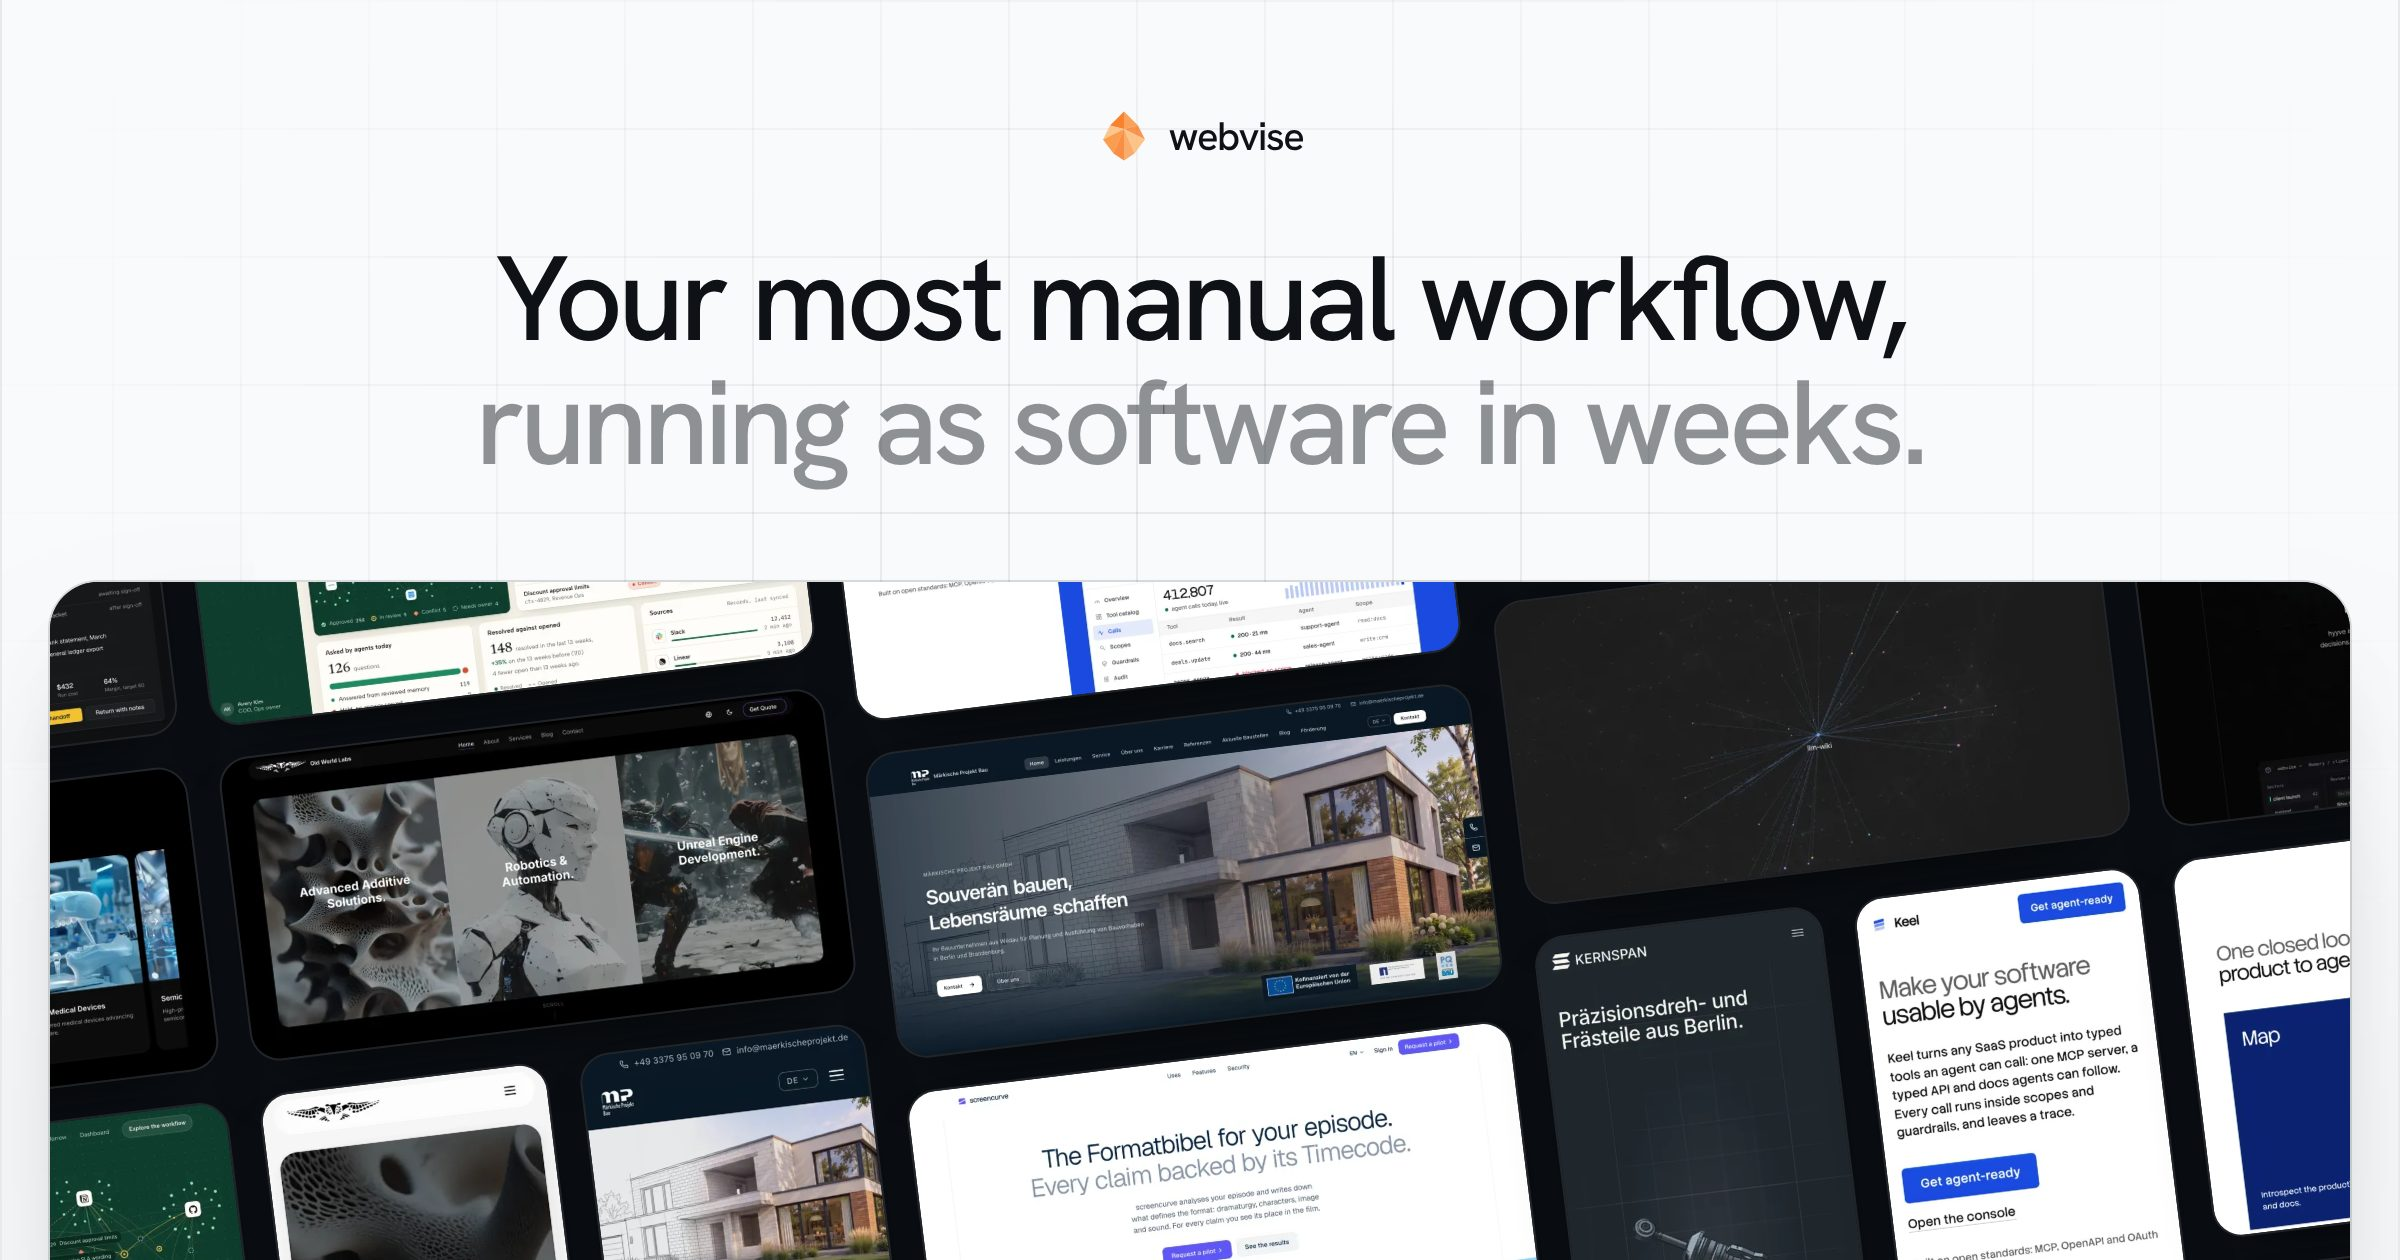
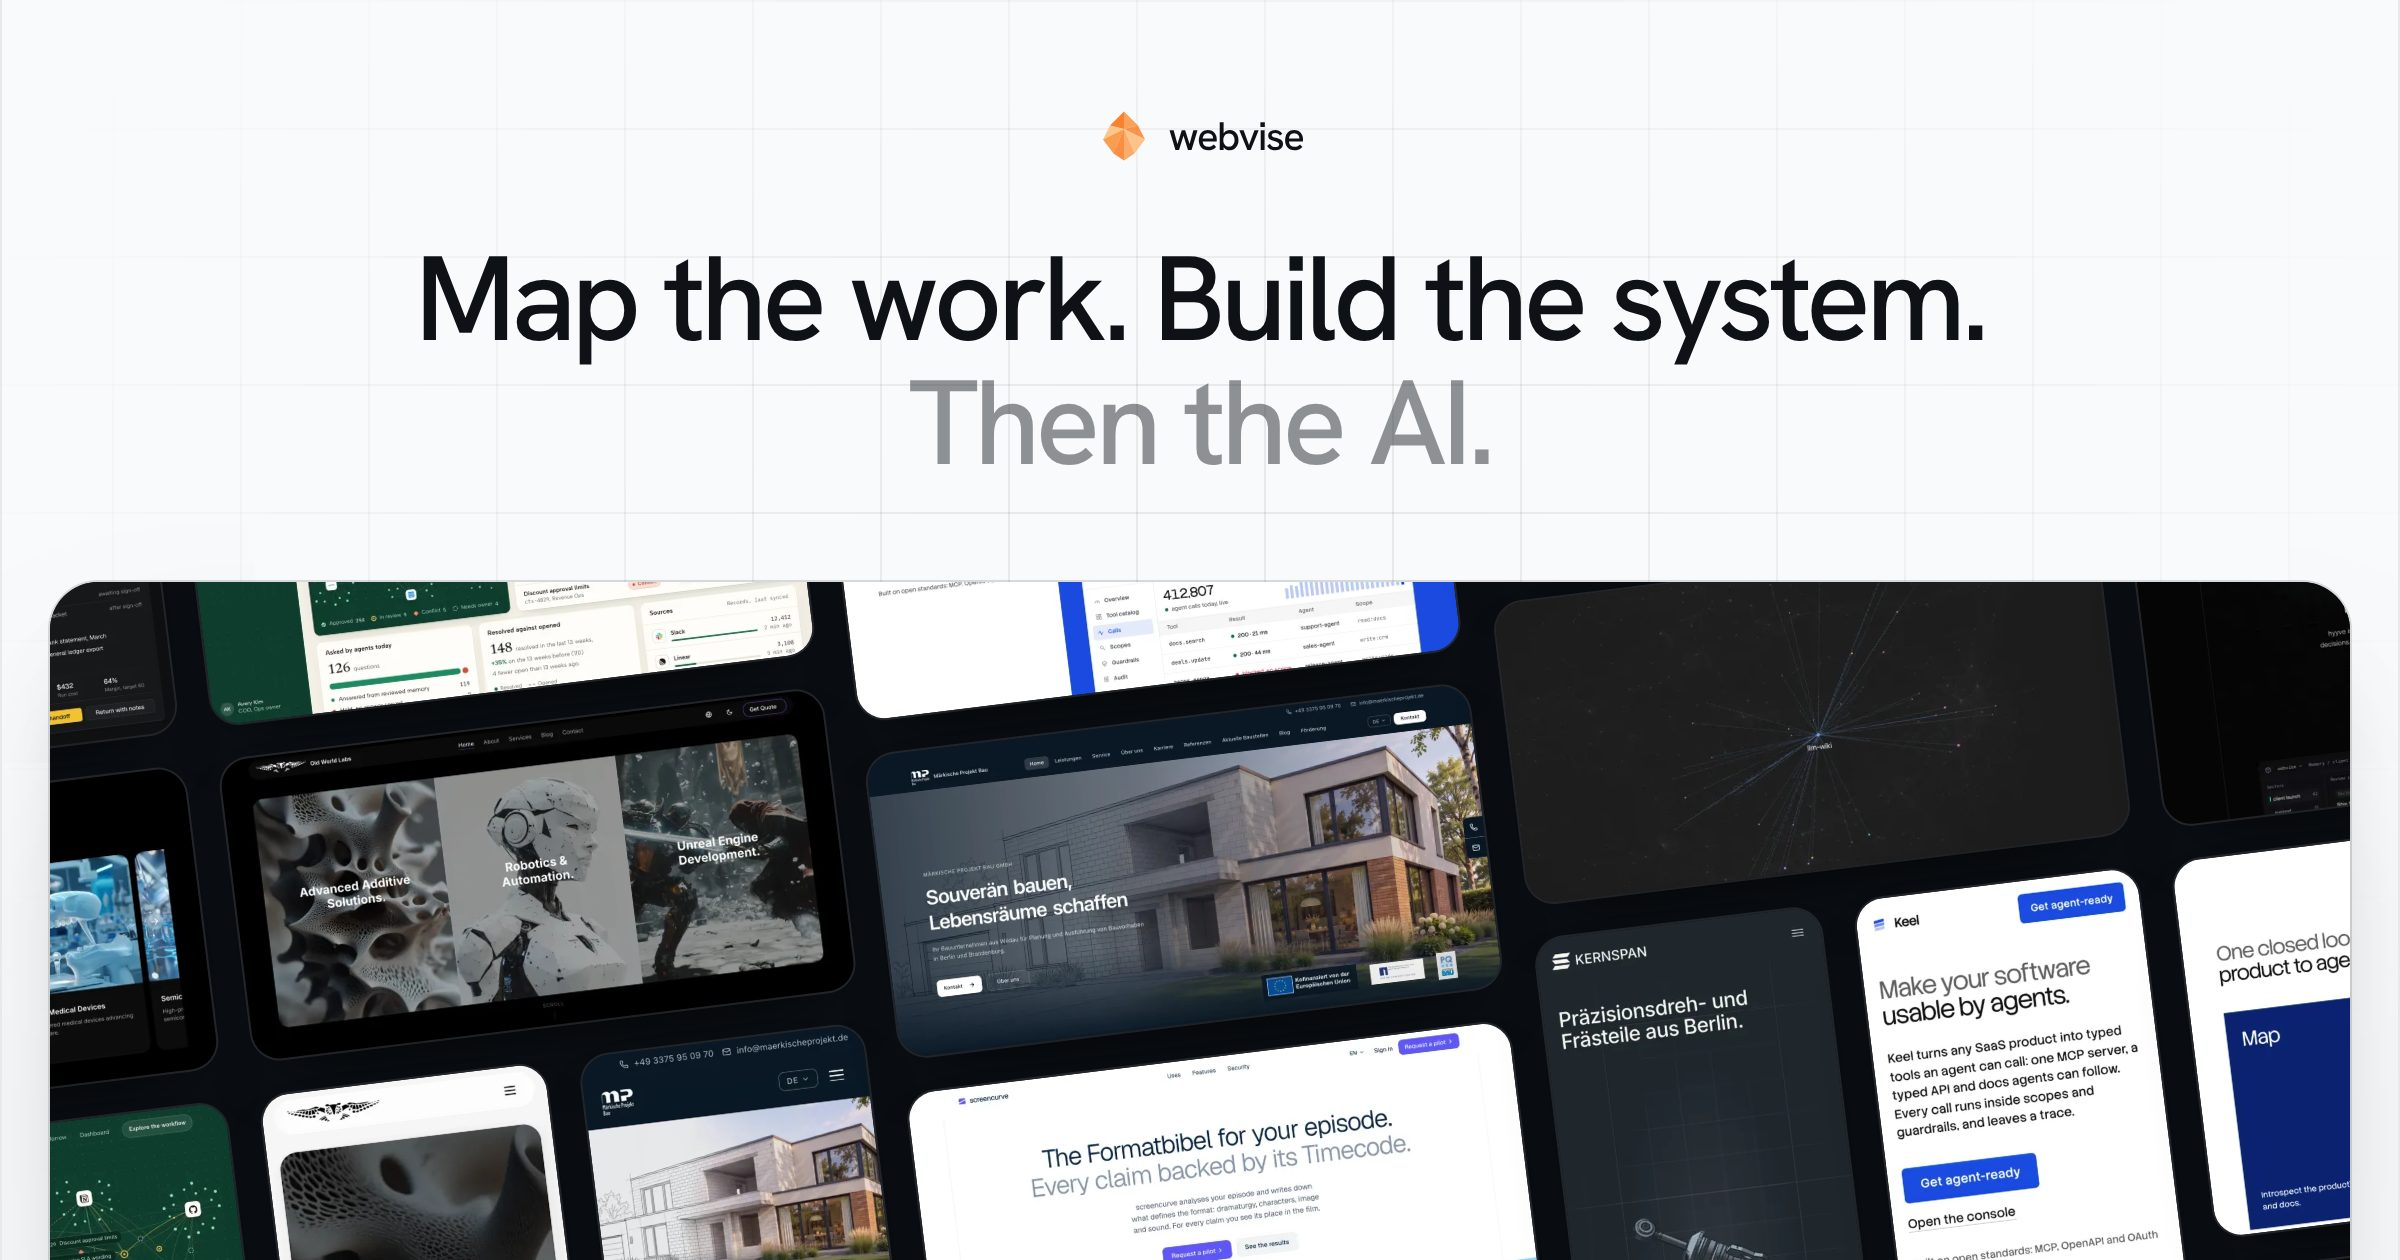
Lead the hero with the three working steps
The headline names the order of work in both locales: map the work,
build the system, then the AI. The subline says who it is for. Page
title, description and share image follow. Each sentence holds its own
line on phones, and the headline steps down one size between 1024 and
1280 px so the German line fits.

Claude-Session: https://claude.ai/code/session_01NQHUUkUBiytz522weRL4vU

Changed region(s): [[0.1562, 0.1857, 0.8438, 0.4024]]

diff --git a/apps/web/src/components/marketing/home/hero.tsx b/apps/web/src/components/marketing/home/hero.tsx
@@ -6,8 +6,7 @@ import HeroWall from "@/components/marketing/home/hero-wall";
 import { ScenePlayer } from "@/components/marketing/scene-player";
 import { GridContainer } from "@/components/marketing/section-wrapper";
 
-// Credentials first, then the track record. The subtitle already says
-// "three weeks", so the line skips that fact.
+// Credentials first, then the track record.
 const factKeys = ["3", "0"] as const;
 
 export default async function Hero() {
@@ -34,7 +33,7 @@ export default async function Hero() {
 			<GridContainer>
 				{/* CSS-only entrance: the first screen never waits for script */}
 				<div className="stagger-visible">
-					<h1 className="mx-auto max-w-[70rem] text-balance text-center font-display text-[2.125rem] text-foreground leading-[1.06] tracking-[-0.04em] sm:text-5xl lg:text-[4.5rem] lg:leading-[1.04]">
+					<h1 className="mx-auto max-w-[70rem] text-balance text-center font-display text-[2.125rem] text-foreground leading-[1.06] tracking-[-0.04em] sm:text-5xl lg:text-[4rem] lg:leading-[1.04] xl:text-[4.5rem]">
 						{t("hero.titleLead")}
 						<br />
 						<span className="text-foreground/45">
